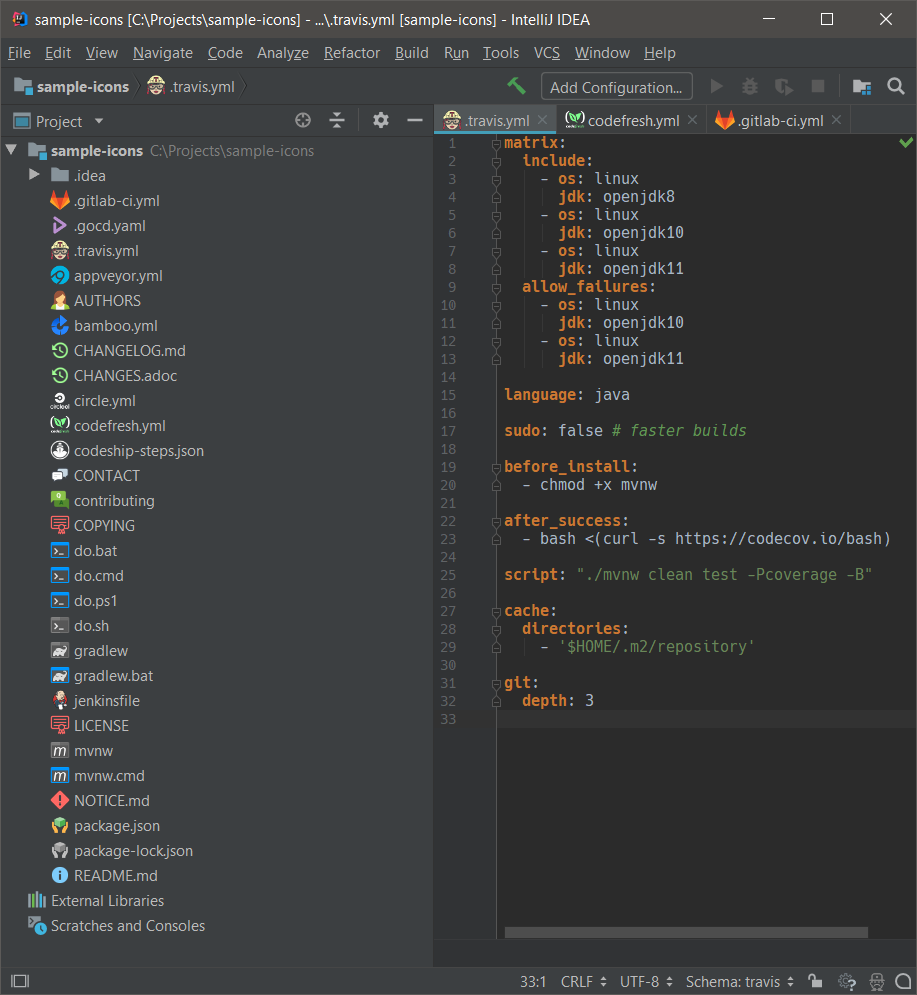
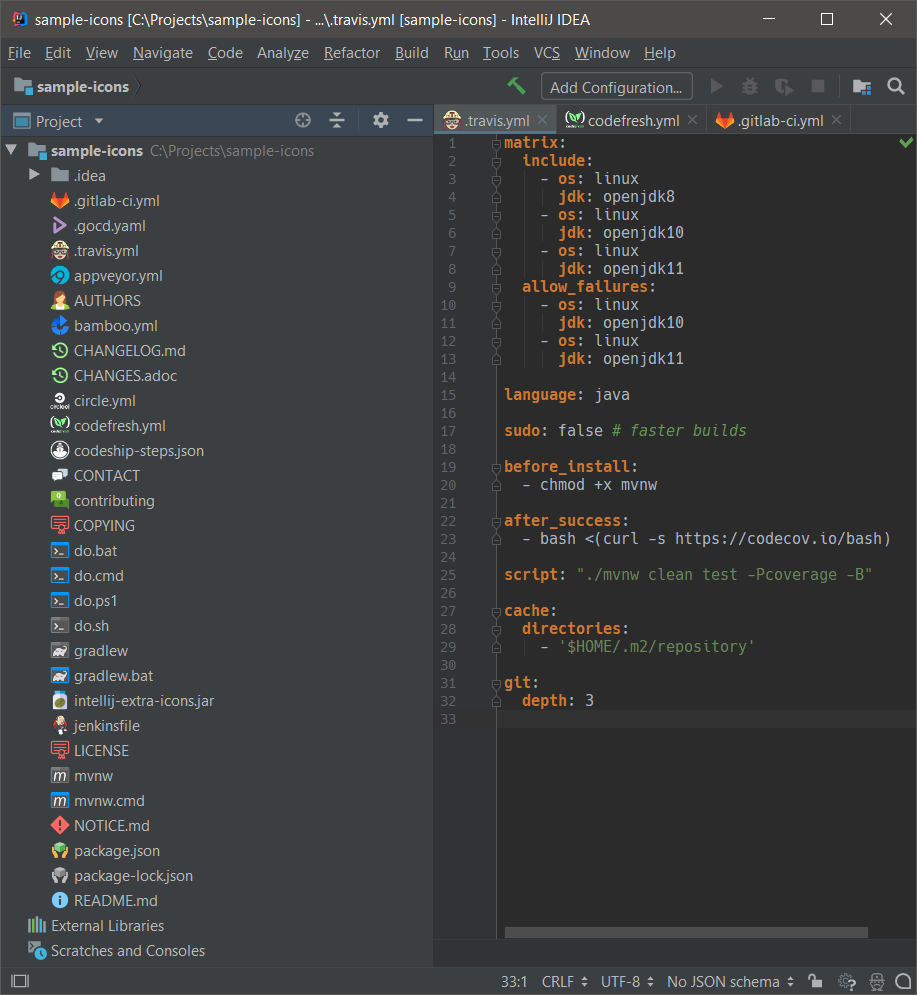
support jar files, update screenshots

Changed region(s): [[0.0305, 0.6854, 0.2443, 0.9658], [0.5496, 0.9658, 0.855, 0.997], [0.1527, 0.0623, 0.2443, 0.0935]]

diff --git a/src/lermitage/intellij/extra/icons/ExtraIconProvider.java b/src/lermitage/intellij/extra/icons/ExtraIconProvider.java
@@ -45,7 +45,8 @@ public class ExtraIconProvider extends IconProvider {
             new Model("/icons/travis.png").willEqual(".travis.yml"),
         
             new Model("/icons/bash.png").willEndWith(".sh"),
-            new Model("/icons/cmd.png").willEndWith(".cmd", ".bat", ".ps1")
+            new Model("/icons/cmd.png").willEndWith(".cmd", ".bat", ".ps1"),
+            new Model("/icons/jar.png").willEndWith(".jar")
             );
     
     public Icon getIcon(@NotNull PsiElement psiElement, int flags) {

diff --git a/CHANGELOG.md b/CHANGELOG.md
@@ -1,7 +1,8 @@
 ## Extra Icons Change Log
 
 ### 0.6 (WIP)
-* reworked `appveyor.yml`, `NOTICE` files.
+* reworked `.gitlab-ci.yml`, `appveyor.yml`, `NOTICE` files.
+* support `*.jar` files.
 
 ### 0.5 (2018/09/01)
 * some code refactoring.
